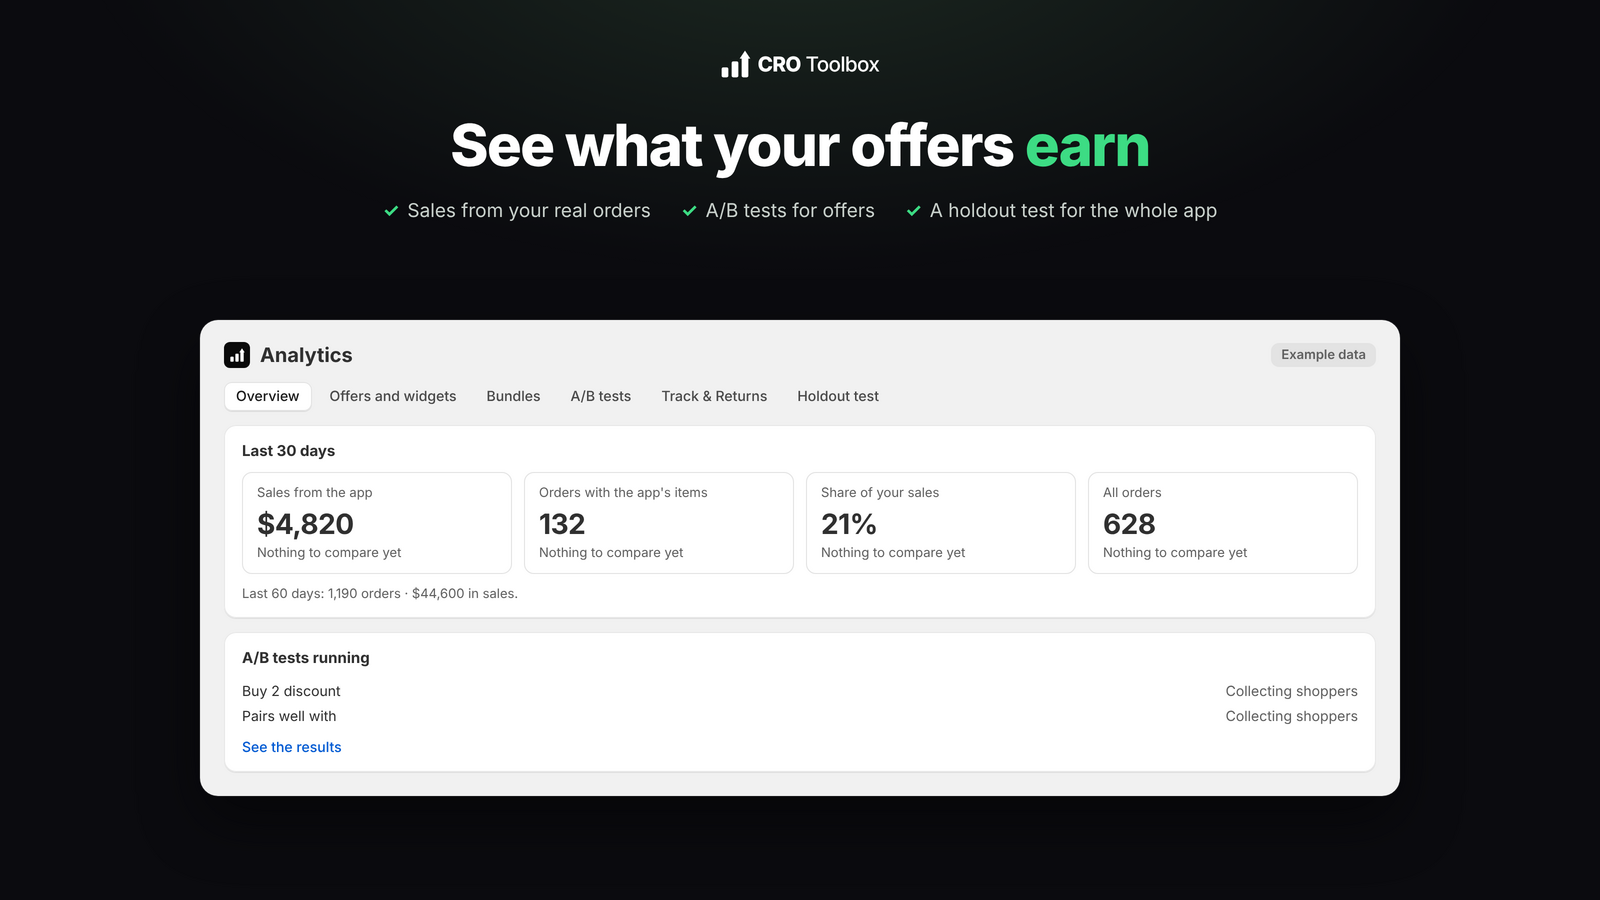
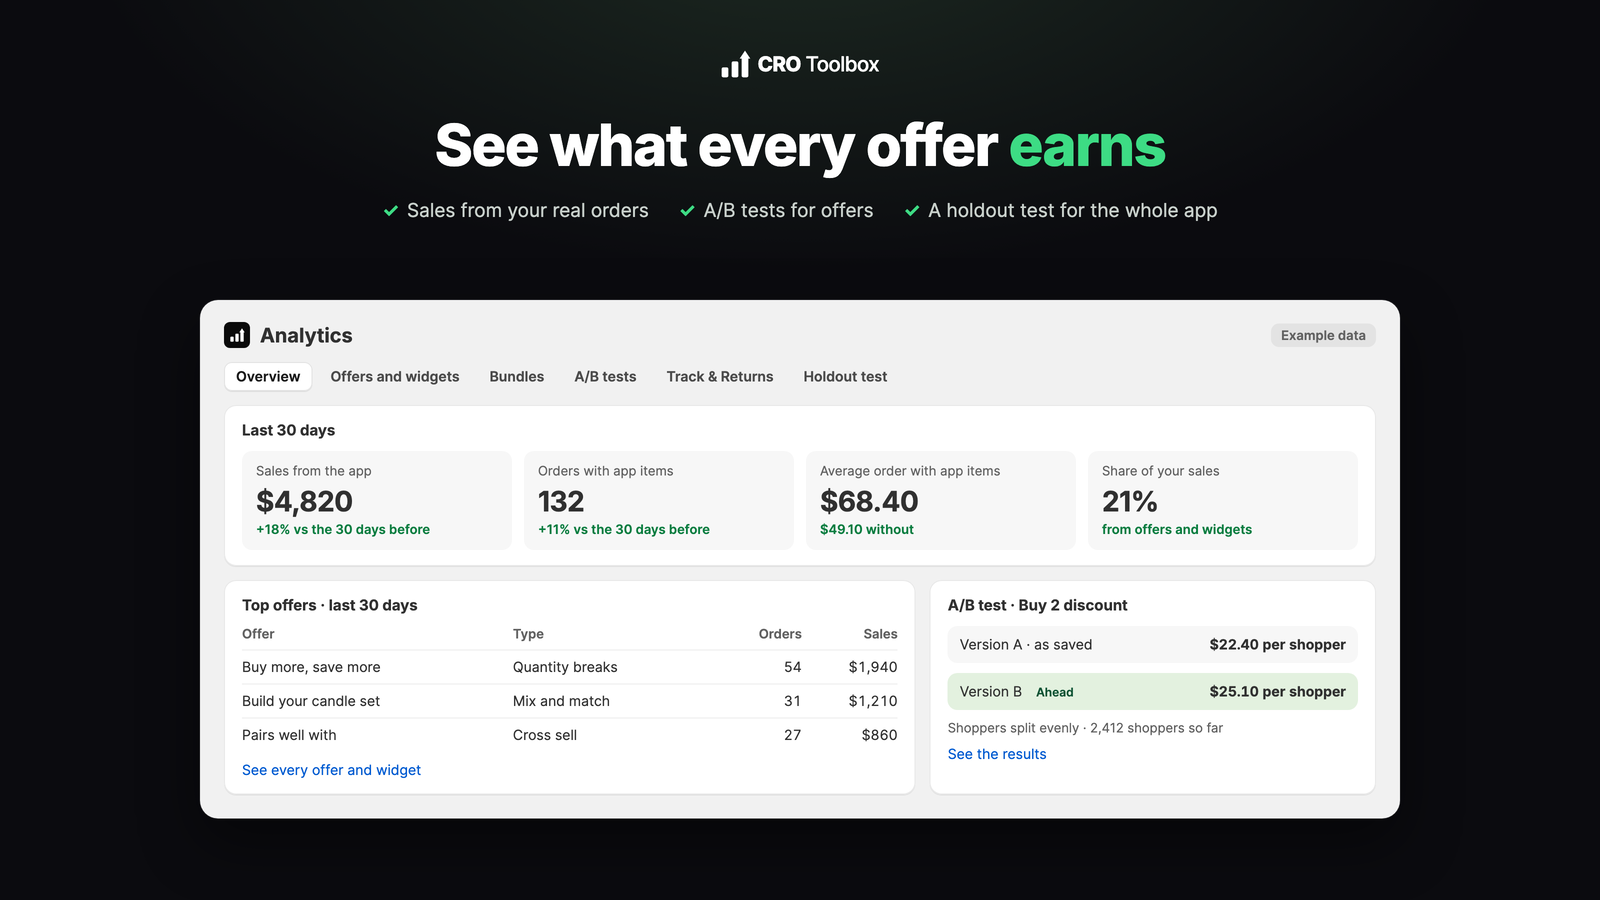
Listing: Analytics screenshot back to the tiles with comparisons, matching the new Overview tab (#329)

diff --git a/branding/listing/templates/shot-6-analytics.html b/branding/listing/templates/shot-6-analytics.html
@@ -1,8 +1,8 @@
 <!doctype html>
-<!-- Listing screenshot 6: the app's Analytics page (admin), drawn like the Overview tab of app/routes/app.analytics.tsx (same labels and texts) with example numbers, marked "Example data". Render: scripts/listing/render.sh shot-6-analytics -->
+<!-- Listing screenshot 6: the app's Analytics page (admin), drawn like the app (Overview tab, app.analytics.tsx, #329) with example numbers, marked "Example data". Render: scripts/listing/render.sh shot-6-analytics -->
 <html><head><meta charset="utf-8"><link rel="stylesheet" href="../styles.css">
 <style>
-  .admin { position: absolute; left: 200px; top: 320px; width: 1200px; background: #f1f1f1; border-radius: 18px; padding: 22px 24px 24px; color: #303030;
+  .admin { position: absolute; left: 200px; top: 300px; width: 1200px; background: #f1f1f1; border-radius: 18px; padding: 22px 24px 24px; color: #303030;
     box-shadow: 0 24px 60px rgba(0,0,0,.45), 0 0 0 1px rgba(255,255,255,.06); font-family: -apple-system, "SF Pro Text", Inter, sans-serif; }
   .admin .head { display: flex; align-items: center; gap: 10px; font-size: 20px; font-weight: 650; }
   .admin .head .ex { margin-left: auto; font-size: 13px; font-weight: 600; color: #616161; background: #e3e3e3; padding: 4px 10px; border-radius: 8px; }
@@ -12,19 +12,27 @@
   .panel { background: #fff; border-radius: 12px; box-shadow: 0 1px 0 rgba(0,0,0,.07), inset 0 0 0 1px #e8e8e8; padding: 16px 18px; margin-top: 14px; }
   .panel h3 { font-size: 15px; font-weight: 650; margin-bottom: 12px; }
   .tiles { display: grid; grid-template-columns: repeat(4, 1fr); gap: 12px; }
-  .tile { background: #fff; border: 1px solid #e3e3e3; border-radius: 10px; padding: 12px 14px; }
+  .tile { background: #f7f7f7; border-radius: 10px; padding: 12px 14px; }
   .tile small { display: block; font-size: 13px; color: #616161; }
   .tile b { display: block; font-size: 28px; font-weight: 700; margin-top: 6px; letter-spacing: -.5px; }
-  .tile i { display: block; font-style: normal; font-size: 13px; color: #616161; margin-top: 4px; }
-  .note { font-size: 13px; color: #616161; margin-top: 12px; }
-  .test { display: flex; justify-content: space-between; font-size: 14px; padding: 4px 0; }
-  .test .sub { color: #616161; }
-  .link { display: inline-block; margin-top: 10px; font-size: 14px; font-weight: 550; color: #005bd3; }
+  .tile i { font-style: normal; font-size: 13px; color: #0a7d3f; font-weight: 600; }
+  .row2 { display: grid; grid-template-columns: 1.55fr 1fr; gap: 14px; }
+  table { width: 100%; border-collapse: collapse; font-size: 14px; }
+  th { text-align: left; font-weight: 600; color: #616161; font-size: 13px; padding: 0 0 8px; }
+  td { padding: 8px 0; border-top: 1px solid #ededed; }
+  td.n, th.n { text-align: right; font-variant-numeric: tabular-nums; }
+  .pill { font-size: 12px; background: #e3f1df; color: #0c5132; padding: 2px 8px; border-radius: 6px; margin-left: 6px; font-weight: 600; }
+  .ab { display: grid; gap: 10px; }
+  .ab .v { display: flex; justify-content: space-between; align-items: center; background: #f7f7f7; border-radius: 10px; padding: 10px 12px; font-size: 14px; }
+  .ab .v b { font-variant-numeric: tabular-nums; }
+  .ab .win { background: #e3f1df; }
+  .bar { height: 8px; border-radius: 99px; background: #e3e3e3; margin-top: 6px; overflow: hidden; }
+  .bar > span { display: block; height: 100%; background: #29845a; border-radius: 99px; }
 </style></head>
 <body>
   <div class="top">
     <img class="logo" src="../logo.svg" alt="">
-    <h1>See what your offers <span>earn</span></h1>
+    <h1>See what every offer <span>earns</span></h1>
     <div class="checks"><div><b>✓</b>Sales from your real orders</div><div><b>✓</b>A/B tests for offers</div><div><b>✓</b>A holdout test for the whole app</div></div>
   </div>
 
@@ -34,18 +42,32 @@
     <div class="panel">
       <h3>Last 30 days</h3>
       <div class="tiles">
-        <div class="tile"><small>Sales from the app</small><b>$4,820</b><i>Nothing to compare yet</i></div>
-        <div class="tile"><small>Orders with the app's items</small><b>132</b><i>Nothing to compare yet</i></div>
-        <div class="tile"><small>Share of your sales</small><b>21%</b><i>Nothing to compare yet</i></div>
-        <div class="tile"><small>All orders</small><b>628</b><i>Nothing to compare yet</i></div>
+        <div class="tile"><small>Sales from the app</small><b>$4,820</b><i>+18% vs the 30 days before</i></div>
+        <div class="tile"><small>Orders with app items</small><b>132</b><i>+11% vs the 30 days before</i></div>
+        <div class="tile"><small>Average order with app items</small><b>$68.40</b><i>$49.10 without</i></div>
+        <div class="tile"><small>Share of your sales</small><b>21%</b><i>from offers and widgets</i></div>
       </div>
-      <p class="note">Last 60 days: 1,190 orders · $44,600 in sales.</p>
     </div>
-    <div class="panel">
-      <h3>A/B tests running</h3>
-      <div class="test"><span>Buy 2 discount</span><span class="sub">Collecting shoppers</span></div>
-      <div class="test"><span>Pairs well with</span><span class="sub">Collecting shoppers</span></div>
-      <span class="link">See the results</span>
+    <div class="row2">
+      <div class="panel">
+        <h3>Top offers · last 30 days</h3>
+        <table>
+          <tr><th>Offer</th><th>Type</th><th class="n">Orders</th><th class="n">Sales</th></tr>
+          <tr><td>Buy more, save more</td><td>Quantity breaks</td><td class="n">54</td><td class="n">$1,940</td></tr>
+          <tr><td>Build your candle set</td><td>Mix and match</td><td class="n">31</td><td class="n">$1,210</td></tr>
+          <tr><td>Pairs well with</td><td>Cross sell</td><td class="n">27</td><td class="n">$860</td></tr>
+        </table>
+        <div style="font-size:14px;color:#005bd3;margin-top:10px">See every offer and widget</div>
+      </div>
+      <div class="panel">
+        <h3>A/B test · Buy 2 discount</h3>
+        <div class="ab">
+          <div class="v"><span>Version A · as saved</span><b>$22.40 per shopper</b></div>
+          <div class="v win"><span>Version B<span class="pill">Ahead</span></span><b>$25.10 per shopper</b></div>
+          <div style="font-size:13px;color:#616161">Shoppers split evenly · 2,412 shoppers so far</div>
+          <div style="font-size:14px;color:#005bd3">See the results</div>
+        </div>
+      </div>
     </div>
   </div>
 </body></html>
